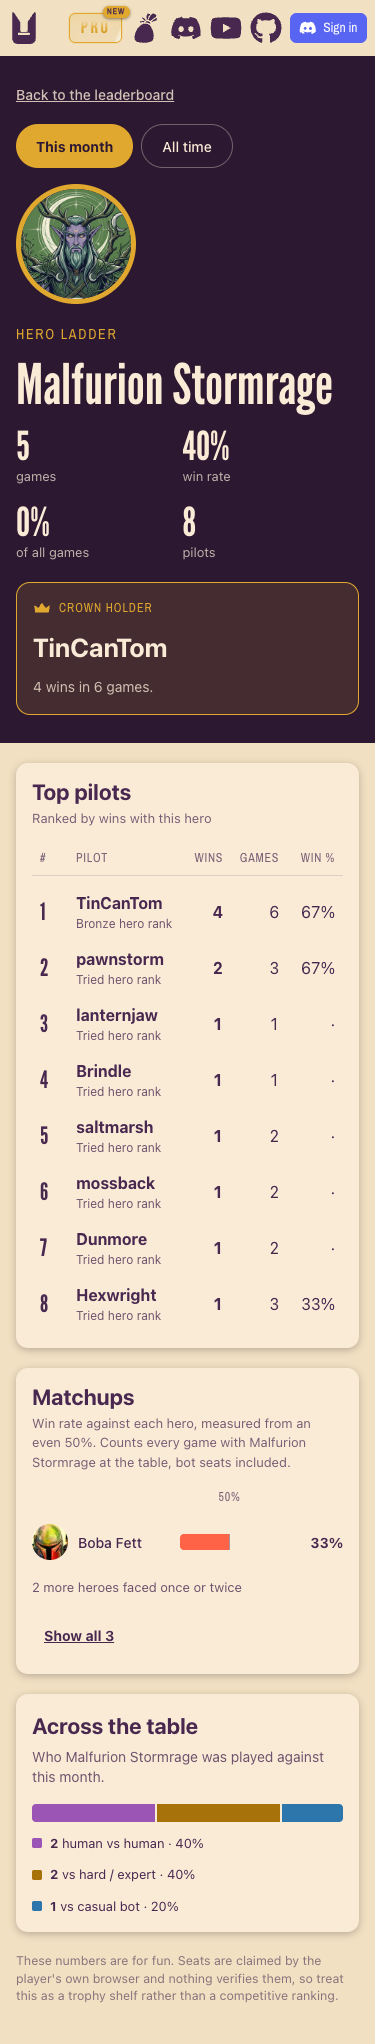
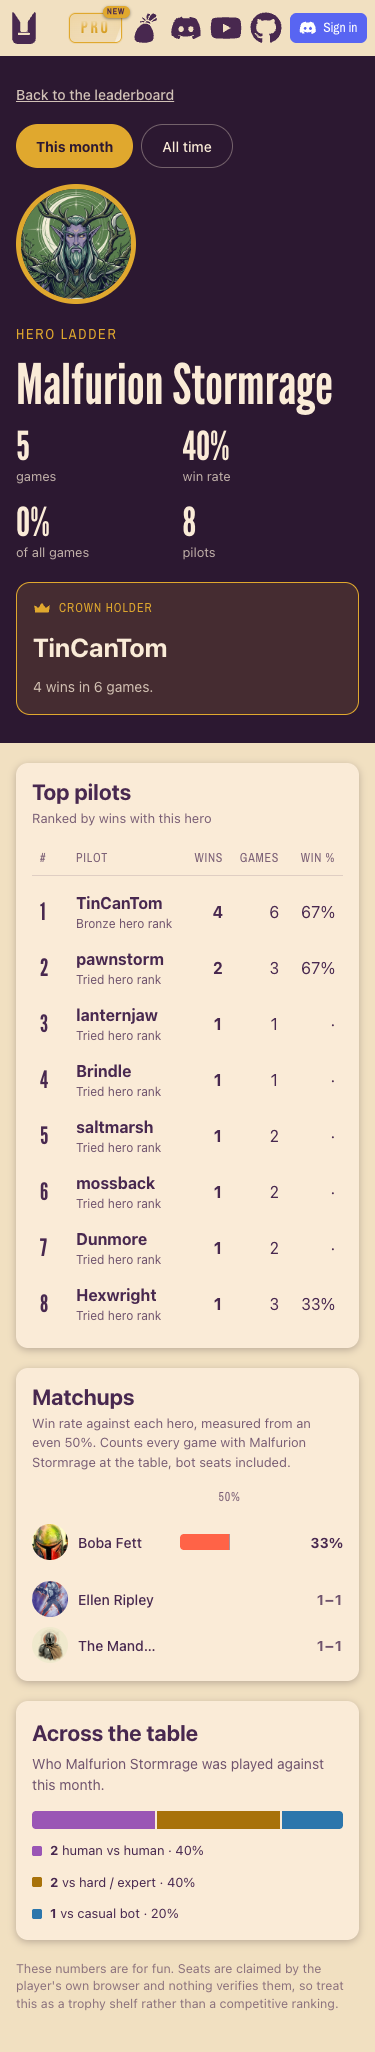
unbrewed-p2p-949: fill leftover collapsed slots with unrated rows, not just a summary
Orchestrator refinement: the first pass still hid every <3-game opponent
behind one summary line whenever there was at least one rated matchup,
so Cecil Palmer's month page still showed only Jason Voorhees with
"12 more heroes faced once or twice" — the exact complaint, just moved
behind a still-too-eager fold.

collapsedMatchupsView now fills the slots the rated group's both-ends
split leaves empty (up to MATCHUPS_SHOWN=12 total rows) with the <3-game
rows (games desc, then name), and only the unrated rows that still don't
fit fold into the muted summary line. "Show all N" only renders when
something is actually hidden. The rated-group both-ends rule (6 best + 6
worst, divider) is unchanged; the divider now also separates a full rated
group from the unrated rows filling its leftover slots (the two cases
never coincide, since a split rated group already fills all 12 slots).

Updated unit tests for the three required scenarios: 1 rated + 12 unrated
now shows 12 rows with a "1 more hero" summary; 0 rated + 5 unrated shows
all 5 with no summary/button; 14 rated + 5 unrated is unchanged (both-ends
already fills all 12 slots, summary "5 more heroes"). Re-verified: npx tsc
--noEmit, npm run lint, npm test (208 suites / 3103 tests green). Re-ran
the headless puppeteer-core check against fixtures on port 3116 at 1280
and 375: zero page errors, no horizontal scroll; screenshots refreshed
under docs/stats-dashboard/heroes/matchups-*.png (dropped the two
[…]

diff --git a/lib/stats/heroPage.test.ts b/lib/stats/heroPage.test.ts
@@ -303,7 +303,7 @@ describe("unrated matchups (issue #949: list every opponent)", () => {
   });
 });
 
-describe("collapsed matchups view (issue #949: every opponent, rated group only collapses)", () => {
+describe("collapsed matchups view (issue #949: unrated rows fill leftover slots up to 12)", () => {
   const opponents = (n: number, games: number): HeroMatchup[] =>
     Array.from({ length: n }, (_, i) => ({
       opponentHeroId: `rated-${i}`,
@@ -322,21 +322,23 @@ describe("collapsed matchups view (issue #949: every opponent, rated group only 
       draws: 0,
     }));
 
-  it("Cecil's month: 1 rated + 12 unrated — the rated row shows, everything else is one summary line", () => {
+  it("Cecil's month: 1 rated + 12 unrated — 12 rows shown, 1 more folded into the summary", () => {
     const rated = matchupBars(opponents(1, 3));
     const rows = unratedMatchups(unrated(12));
     const view = collapsedMatchupsView(rated, rows);
     expect(view.top).toHaveLength(1);
     expect(view.bottom).toHaveLength(0);
-    expect(view.shownUnrated).toHaveLength(0);
-    expect(view.summaryCount).toBe(12);
+    expect(view.shownUnrated).toHaveLength(11);
+    expect(view.summaryCount).toBe(1);
     expect(view.total).toBe(13);
     expect(view.hasMore).toBe(true);
   });
 
-  it("0 rated, few unrated: every opponent shows directly, nothing to expand", () => {
+  it("0 rated, 5 unrated: all 5 show directly, nothing hidden, no Show all", () => {
     const rows = unratedMatchups(unrated(5));
     const view = collapsedMatchupsView([], rows);
+    expect(view.top).toHaveLength(0);
+    expect(view.bottom).toHaveLength(0);
     expect(view.shownUnrated).toHaveLength(5);
     expect(view.summaryCount).toBe(0);
     expect(view.total).toBe(5);
@@ -352,7 +354,7 @@ describe("collapsed matchups view (issue #949: every opponent, rated group only 
     expect(view.hasMore).toBe(true);
   });
 
-  it("14 rated + 5 unrated: rated splits 6/6, unrated folds into one summary line", () => {
+  it("14 rated + 5 unrated: rated both-ends fills all 12 slots, unrated folds into one summary line", () => {
     const rated = matchupBars(opponents(14, 100));
     const rows = unratedMatchups(unrated(5));
     const view = collapsedMatchupsView(rated, rows);
@@ -361,6 +363,17 @@ describe("collapsed matchups view (issue #949: every opponent, rated group only 
     expect(view.shownUnrated).toHaveLength(0);
     expect(view.summaryCount).toBe(5);
     expect(view.total).toBe(19);
+    expect(view.hasMore).toBe(true);
+  });
+
+  it("rated alone fills every slot: no unrated shown or summarised", () => {
+    const rated = matchupBars(opponents(12, 100));
+    const rows = unratedMatchups(unrated(3));
+    const view = collapsedMatchupsView(rated, rows);
+    expect(view.top).toHaveLength(12);
+    expect(view.bottom).toHaveLength(0);
+    expect(view.shownUnrated).toHaveLength(0);
+    expect(view.summaryCount).toBe(3);
     expect(view.hasMore).toBe(true);
   });
 });

diff --git a/lib/stats/heroPage.ts b/lib/stats/heroPage.ts
@@ -292,33 +292,35 @@ export interface MatchupsView {
   /** Rated rows shown in the collapsed view (both-ends split, or all when ≤ MATCHUPS_SHOWN). */
   top: MatchupBar[];
   bottom: MatchupBar[];
-  /** Unrated rows shown directly in the collapsed view — only when there are no rated rows. */
+  /** Unrated rows filling any slots left over up to MATCHUPS_SHOWN total rows. */
   shownUnrated: MatchupRecordRow[];
-  /** Unrated rows folded into the muted summary line in the collapsed view; 0 hides the line. */
+  /** Unrated rows still hidden behind the muted summary line; 0 hides the line. */
   summaryCount: number;
   /** rated.length + unrated.length, for "Show all N". */
   total: number;
-  /** Whether the collapsed view hides anything (rated split, or any unrated at all). */
+  /** Whether the collapsed view hides anything at all. */
   hasMore: boolean;
 }
 
 /**
  * Combines the ≥3-game both-ends split with the <3-game rows (ruling for
- * #949): the both-ends rule applies to the rated group only, and whenever
- * there is at least one rated row, ALL unrated rows fold into one muted
- * summary line while collapsed. Only when there are no rated rows at all do
- * up to MATCHUPS_SHOWN unrated rows show directly, with any remainder
- * summarised.
+ * #949, refined): the both-ends rule (6 best + 6 worst, divider, when the
+ * rated group alone exceeds MATCHUPS_SHOWN) applies to the rated group only.
+ * Whatever rated rows the collapsed view shows, the <3-game rows (games
+ * desc, then name) fill the REMAINING slots up to MATCHUPS_SHOWN total rows
+ * — so Cecil Palmer's 1 rated + 12 unrated fills all 12 slots instead of
+ * hiding everything behind one summary line. Only the unrated rows that
+ * still don't fit are folded into the muted summary line, and "Show all N"
+ * only appears when something is actually hidden.
  */
 export const collapsedMatchupsView = (rated: MatchupBar[], unrated: MatchupRecordRow[]): MatchupsView => {
   const total = rated.length + unrated.length;
-  if (rated.length === 0) {
-    const shownUnrated = unrated.slice(0, MATCHUPS_SHOWN);
-    const summaryCount = Math.max(0, unrated.length - MATCHUPS_SHOWN);
-    return { top: [], bottom: [], shownUnrated, summaryCount, total, hasMore: summaryCount > 0 };
-  }
   const { top, bottom } = collapsedMatchups(rated);
-  return { top, bottom, shownUnrated: [], summaryCount: unrated.length, total, hasMore: unrated.length > 0 || bottom.length > 0 };
+  const remainingSlots = Math.max(0, MATCHUPS_SHOWN - (top.length + bottom.length));
+  const shownUnrated = unrated.slice(0, remainingSlots);
+  const summaryCount = unrated.length - shownUnrated.length;
+  const shownCount = top.length + bottom.length + shownUnrated.length;
+  return { top, bottom, shownUnrated, summaryCount, total, hasMore: total > shownCount };
 };
 
 // --- crown -------------------------------------------------------------------

diff --git a/components/Heroes/HeroLadder.tsx b/components/Heroes/HeroLadder.tsx
@@ -409,7 +409,11 @@ const Matchups = ({ bars, unrated, name }: { bars: MatchupBar[]; unrated: Matchu
             {top.map((bar) => (
               <MatchupLine key={bar.opponentHeroId} bar={bar} />
             ))}
-            {bottom.length > 0 && <Box data-testid="matchup-divider" role="separator" h="1px" my="2px" bg={RULE} />}
+            {/* Either the rated group's own both-ends split, or the boundary before the
+                unrated rows filling its leftover slots — the two never both apply. */}
+            {(bottom.length > 0 || (top.length > 0 && shownUnrated.length > 0)) && (
+              <Box data-testid="matchup-divider" role="separator" h="1px" my="2px" bg={RULE} />
+            )}
             {bottom.map((bar) => (
               <MatchupLine key={bar.opponentHeroId} bar={bar} />
             ))}
